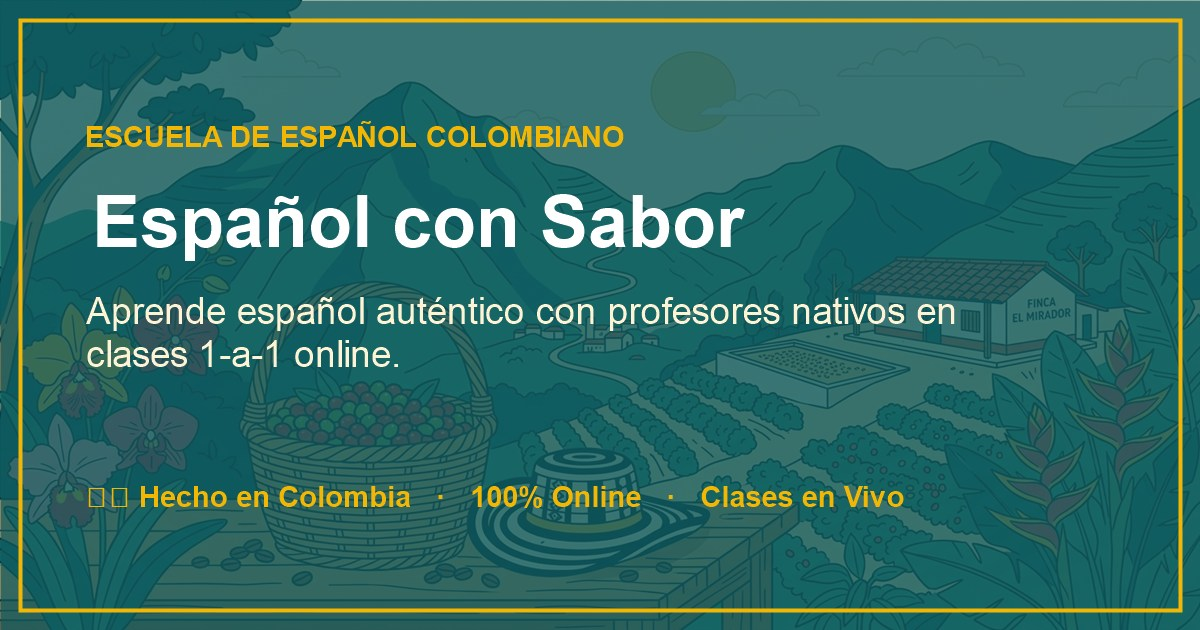
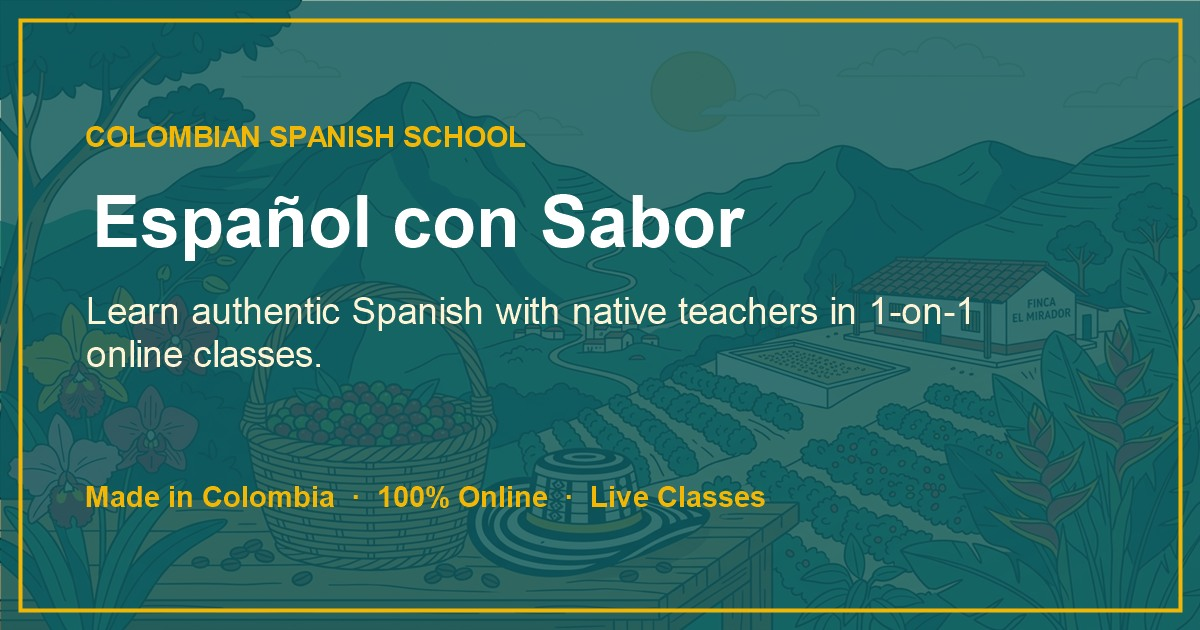
Cambiar meta tags Open Graph y Twitter Card a inglés y regenerar og-image.jpg

Changed region(s): [[0.0617, 0.4524, 0.8325, 0.6032], [0.0617, 0.754, 0.7708, 0.8143], [0.0617, 0.181, 0.5242, 0.2413]]

diff --git a/index.html b/index.html
@@ -10,16 +10,16 @@
   <meta property="og:type" content="website">
   <meta property="og:site_name" content="Español con Sabor">
   <meta property="og:url" content="https://espanolconsabor.pages.dev/">
-  <meta property="og:title" content="Español con Sabor | Clases de Español Colombiano Online">
-  <meta property="og:description" content="Aprende español colombiano auténtico con profesores nativos. Clases 1-a-1 online. Prueba desde $15.">
+  <meta property="og:title" content="Español con Sabor | Learn Colombian Spanish Online">
+  <meta property="og:description" content="Learn authentic Colombian Spanish with native teachers. 1-on-1 online classes. Trial class from $15.">
   <meta property="og:image" content="https://espanolconsabor.pages.dev/og-image.jpg">
   <meta property="og:image:width" content="1200">
   <meta property="og:image:height" content="630">
 
   <!-- Twitter Card -->
   <meta name="twitter:card" content="summary_large_image">
-  <meta name="twitter:title" content="Español con Sabor | Clases de Español Colombiano Online">
-  <meta name="twitter:description" content="Aprende español colombiano auténtico con profesores nativos. Clases personalizadas, horarios flexibles.">
+  <meta name="twitter:title" content="Español con Sabor | Learn Colombian Spanish Online">
+  <meta name="twitter:description" content="Learn authentic Colombian Spanish with native teachers. 1-on-1 online classes.">
   <meta name="twitter:image" content="https://espanolconsabor.pages.dev/og-image.jpg">
   <link rel="preconnect" href="https://fonts.googleapis.com" />
   <link rel="preconnect" href="https://fonts.gstatic.com" crossorigin />
